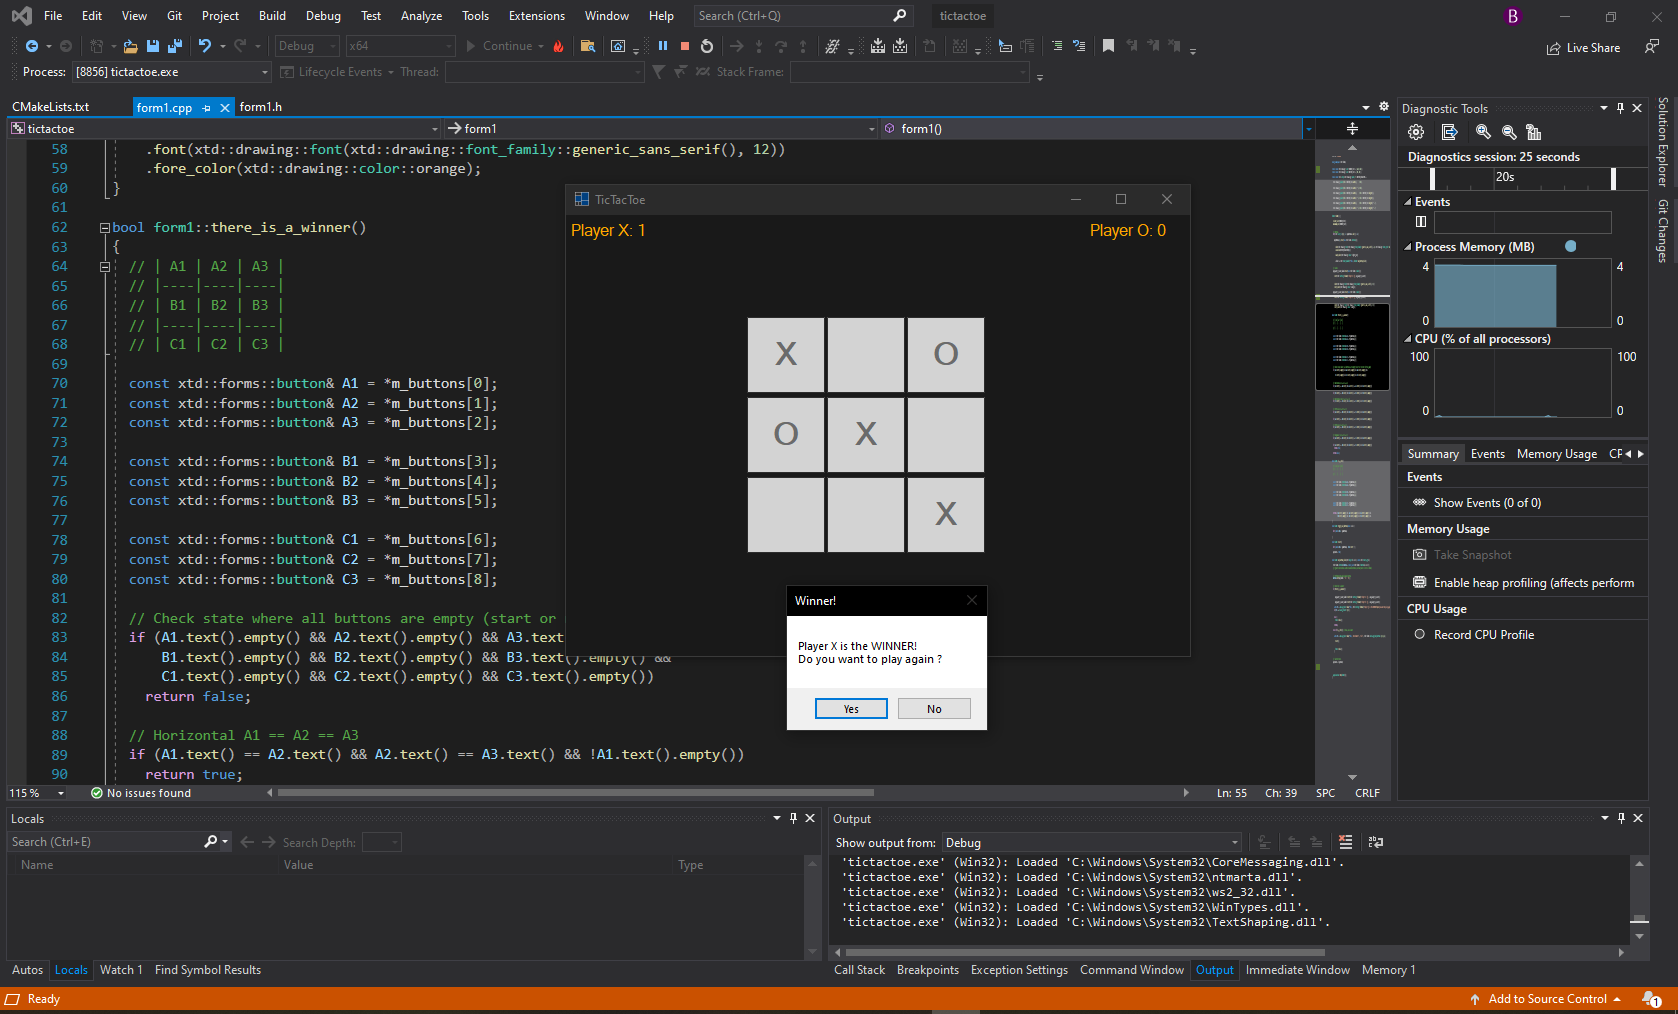
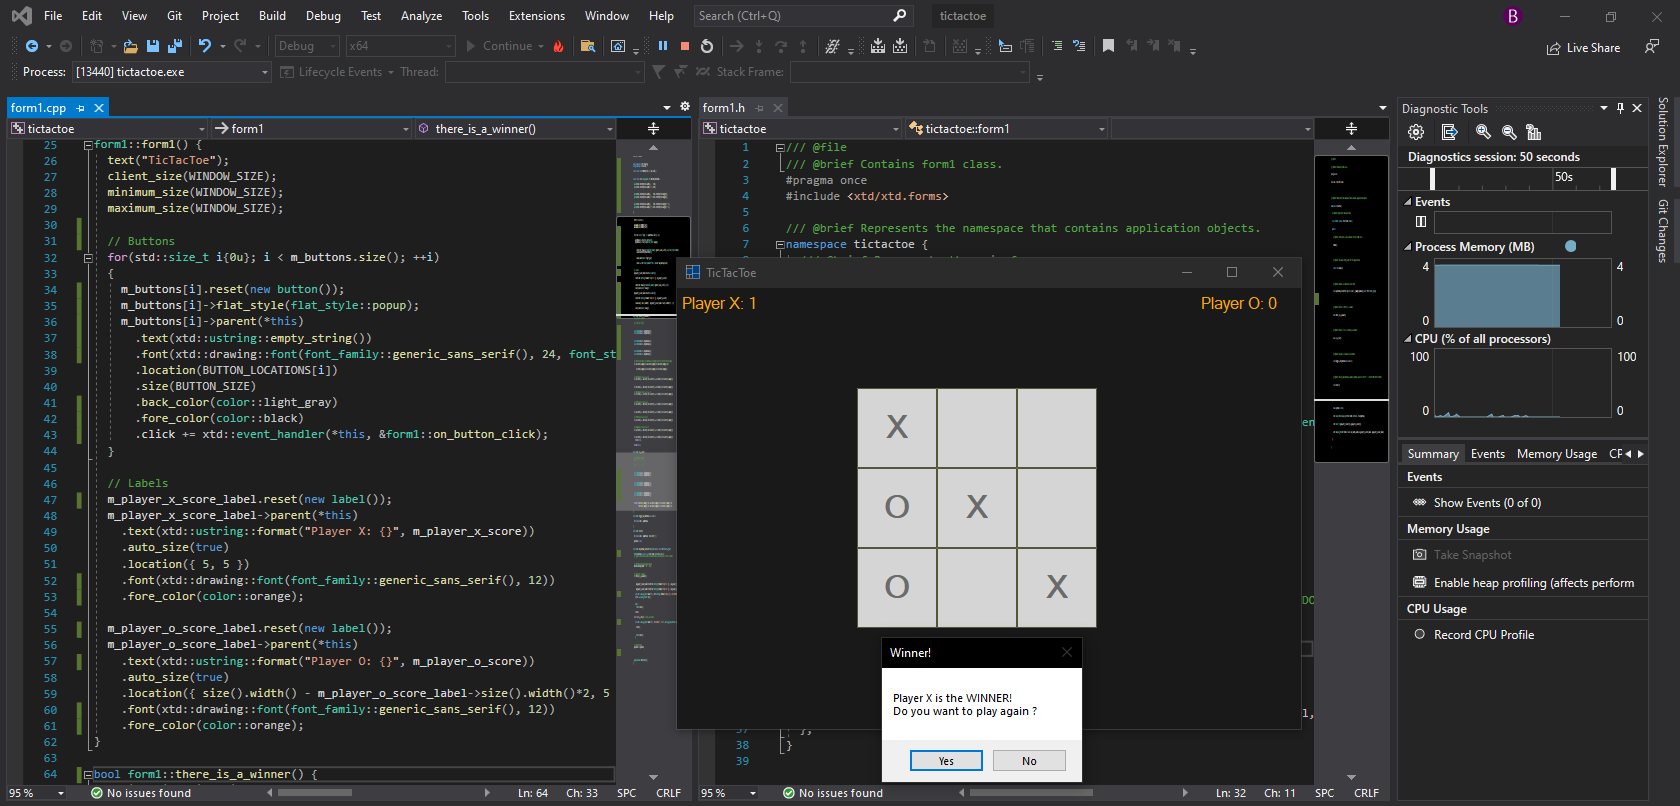
Changed button flat style to xtd::forms::flat_style::popup

diff --git a/tictactoe/src/form1.cpp b/tictactoe/src/form1.cpp
@@ -1,24 +1,25 @@
 #include "form1.h"
 
 using namespace xtd::forms;
+using namespace xtd::drawing;
 using namespace tictactoe;
 
-static const xtd::drawing::size WINDOW_SIZE = { 640, 480 };
-static const xtd::drawing::size BUTTON_SIZE = { 80, 80 };
+static const size WINDOW_SIZE = { 640, 480 };
+static const size BUTTON_SIZE = { 80, 80 };
 
-static const std::array<xtd::drawing::point, 9> BUTTON_LOCATIONS =
+static const std::array<point, 9> BUTTON_LOCATIONS =
 {
-  xtd::drawing::point(100 + BUTTON_SIZE.width(),     100),
-  xtd::drawing::point(100 + BUTTON_SIZE.width() * 2, 100),
-  xtd::drawing::point(100 + BUTTON_SIZE.width() * 3, 100),
+  point(100 + BUTTON_SIZE.width(),     100),
+  point(100 + BUTTON_SIZE.width() * 2, 100),
+  point(100 + BUTTON_SIZE.width() * 3, 100),
 
-  xtd::drawing::point(100 + BUTTON_SIZE.width(),     100 + BUTTON_SIZE.height()),
-  xtd::drawing::point(100 + BUTTON_SIZE.width() * 2, 100 + BUTTON_SIZE.height()),
-  xtd::drawing::point(100 + BUTTON_SIZE.width() * 3, 100 + BUTTON_SIZE.height()),
+  point(100 + BUTTON_SIZE.width(),     100 + BUTTON_SIZE.height()),
+  point(100 + BUTTON_SIZE.width() * 2, 100 + BUTTON_SIZE.height()),
+  point(100 + BUTTON_SIZE.width() * 3, 100 + BUTTON_SIZE.height()),
 
-  xtd::drawing::point(100 + BUTTON_SIZE.width(),     100 + BUTTON_SIZE.height() * 2),
-  xtd::drawing::point(100 + BUTTON_SIZE.width() * 2, 100 + BUTTON_SIZE.height() * 2),
-  xtd::drawing::point(100 + BUTTON_SIZE.width() * 3, 100 + BUTTON_SIZE.height() * 2)
+  point(100 + BUTTON_SIZE.width(),     100 + BUTTON_SIZE.height() * 2),
+  point(100 + BUTTON_SIZE.width() * 2, 100 + BUTTON_SIZE.height() * 2),
+  point(100 + BUTTON_SIZE.width() * 3, 100 + BUTTON_SIZE.height() * 2)
 };
 
 form1::form1() {
@@ -30,54 +31,53 @@ form1::form1() {
   // Buttons
   for(std::size_t i{0u}; i < m_buttons.size(); ++i)
   {
-    m_buttons[i].reset(new xtd::forms::button()); 
+    m_buttons[i].reset(new button());
+    m_buttons[i]->flat_style(flat_style::popup);
     m_buttons[i]->parent(*this)
       .text(xtd::ustring::empty_string())
-      .font(xtd::drawing::font(xtd::drawing::font_family::generic_sans_serif(), 24, xtd::drawing::font_style::bold))
+      .font(xtd::drawing::font(font_family::generic_sans_serif(), 24, font_style::bold))
       .location(BUTTON_LOCATIONS[i])
       .size(BUTTON_SIZE)
-      .back_color(xtd::drawing::color::light_gray)
-      .fore_color(xtd::drawing::color::black)
+      .back_color(color::light_gray)
+      .fore_color(color::black)
       .click += xtd::event_handler(*this, &form1::on_button_click);
   }
  
   // Labels
-  m_player_x_score_label.reset(new xtd::forms::label());
+  m_player_x_score_label.reset(new label());
   m_player_x_score_label->parent(*this)
     .text(xtd::ustring::format("Player X: {}", m_player_x_score))
     .auto_size(true)
     .location({ 5, 5 })
-    .font(xtd::drawing::font(xtd::drawing::font_family::generic_sans_serif(), 12))
-    .fore_color(xtd::drawing::color::orange);
+    .font(xtd::drawing::font(font_family::generic_sans_serif(), 12))
+    .fore_color(color::orange);
   
-  m_player_o_score_label.reset(new xtd::forms::label());
+  m_player_o_score_label.reset(new label());
   m_player_o_score_label->parent(*this)
     .text(xtd::ustring::format("Player O: {}", m_player_o_score))
     .auto_size(true)
     .location({ size().width() - m_player_o_score_label->size().width()*2, 5 })
-    .font(xtd::drawing::font(xtd::drawing::font_family::generic_sans_serif(), 12))
-    .fore_color(xtd::drawing::color::orange);
+    .font(xtd::drawing::font(font_family::generic_sans_serif(), 12))
+    .fore_color(color::orange);
 }
 
-bool form1::there_is_a_winner()
-{
+bool form1::there_is_a_winner() {
   // | A1 | A2 | A3 |
   // |----|----|----|
   // | B1 | B2 | B3 |
   // |----|----|----|
   // | C1 | C2 | C3 |
-
-  const xtd::forms::button& A1 = *m_buttons[0];
-  const xtd::forms::button& A2 = *m_buttons[1];
-  const xtd::forms::button& A3 = *m_buttons[2];
+  const button& A1 = *m_buttons[0];
+  const button& A2 = *m_buttons[1];
+  const button& A3 = *m_buttons[2];
   
-  const xtd::forms::button& B1 = *m_buttons[3];
-  const xtd::forms::button& B2 = *m_buttons[4];
-  const xtd::forms::button& B3 = *m_buttons[5];
+  const button& B1 = *m_buttons[3];
+  const button& B2 = *m_buttons[4];
+  const button& B3 = *m_buttons[5];
   
-  const xtd::forms::button& C1 = *m_buttons[6];
-  const xtd::forms::button& C2 = *m_buttons[7];
-  const xtd::forms::button& C3 = *m_buttons[8];
+  const button& C1 = *m_buttons[6];
+  const button& C2 = *m_buttons[7];
+  const button& C3 = *m_buttons[8];
 
   // Check state where all buttons are empty (start or restart of the game)
   if (A1.text().empty() && A2.text().empty() && A3.text().empty() &&
@@ -123,17 +123,17 @@ bool form1::is_a_tie()
   // |----|----|----|
   // | C1 | C2 | C3 |
 
-  const xtd::forms::button& A1 = *m_buttons[0];
-  const xtd::forms::button& A2 = *m_buttons[1];
-  const xtd::forms::button& A3 = *m_buttons[2];
+  const button& A1 = *m_buttons[0];
+  const button& A2 = *m_buttons[1];
+  const button& A3 = *m_buttons[2];
 
-  const xtd::forms::button& B1 = *m_buttons[3];
-  const xtd::forms::button& B2 = *m_buttons[4];
-  const xtd::forms::button& B3 = *m_buttons[5];
+  const button& B1 = *m_buttons[3];
+  const button& B2 = *m_buttons[4];
+  const button& B3 = *m_buttons[5];
 
-  const xtd::forms::button& C1 = *m_buttons[6];
-  const xtd::forms::button& C2 = *m_buttons[7];
-  const xtd::forms::button& C3 = *m_buttons[8];
+  const button& C1 = *m_buttons[6];
+  const button& C2 = *m_buttons[7];
+  const button& C3 = *m_buttons[8];
 
   return (!A1.text().empty() && !A2.text().empty() && !A3.text().empty() &&
           !B1.text().empty() && !B2.text().empty() && !B3.text().empty() &&
@@ -155,7 +155,7 @@ void form1::reset()
 
 void form1::on_button_click(xtd::object& sender, const xtd::event_args&)
 {
-  xtd::forms::button& button = static_cast<xtd::forms::button&>(sender);
+  button& button = static_cast<xtd::forms::button&>(sender);
   // Ignore interactions with disabled buttons (already have X or O in them)
   if (!button.enabled()) return;
 
@@ -171,7 +171,7 @@ void form1::on_button_click(xtd::object& sender, const xtd::event_args&)
     else
       m_player_o_score_label->text(xtd::ustring::format("Player O: {}", ++m_player_o_score));
     toggle_all_buttons(false);
-    auto res = message_box::show(*this, xtd::ustring::format("Player {} is the WINNER!\nDo you want to play again ?", m_XTurn ? 'X' : 'O'), "Winner!", xtd::forms::message_box_buttons::yes_no);
+    auto res = message_box::show(*this, xtd::ustring::format("Player {} is the WINNER!\nDo you want to play again ?", m_XTurn ? 'X' : 'O'), "Winner!", message_box_buttons::yes_no);
     if(res == dialog_result::yes) {
       reset();
     }
@@ -182,7 +182,7 @@ void form1::on_button_click(xtd::object& sender, const xtd::event_args&)
   }
   else if(is_a_tie()) // draw, no winner
   {
-    auto res = message_box::show(*this, "No Winner!", "Tie!", xtd::forms::message_box_buttons::yes_no);
+    auto res = message_box::show(*this, "No Winner!", "Tie!", message_box_buttons::yes_no);
     if (res == dialog_result::yes) {
       reset();
     }
